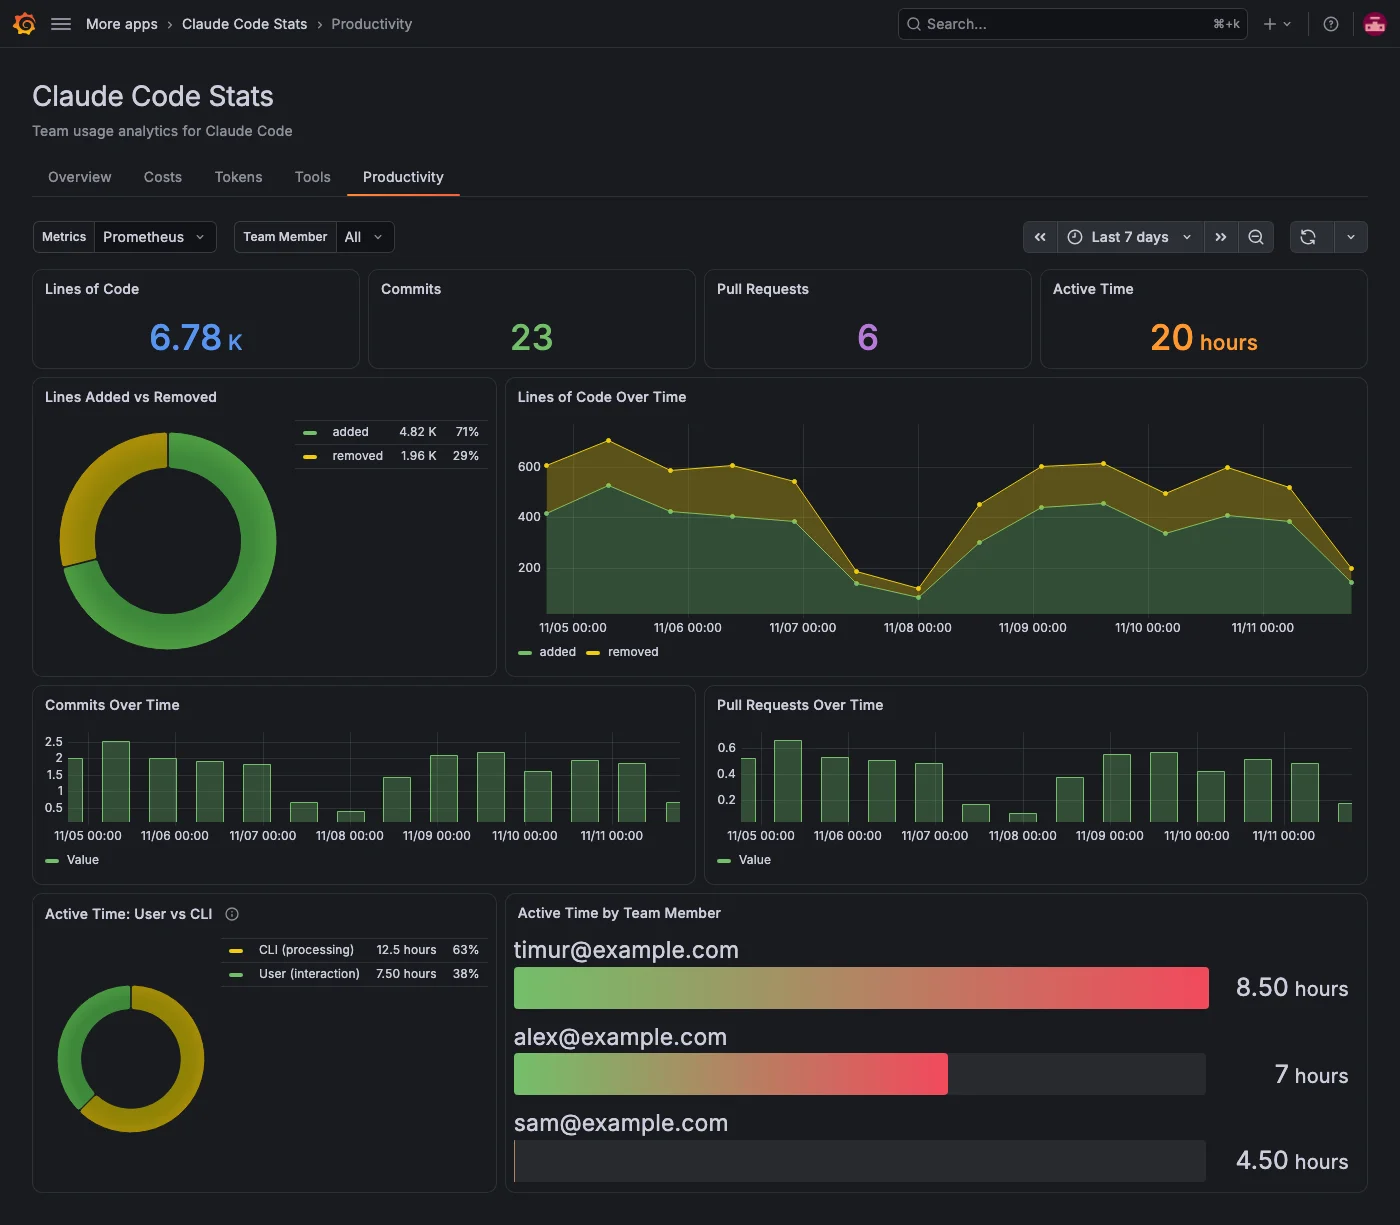
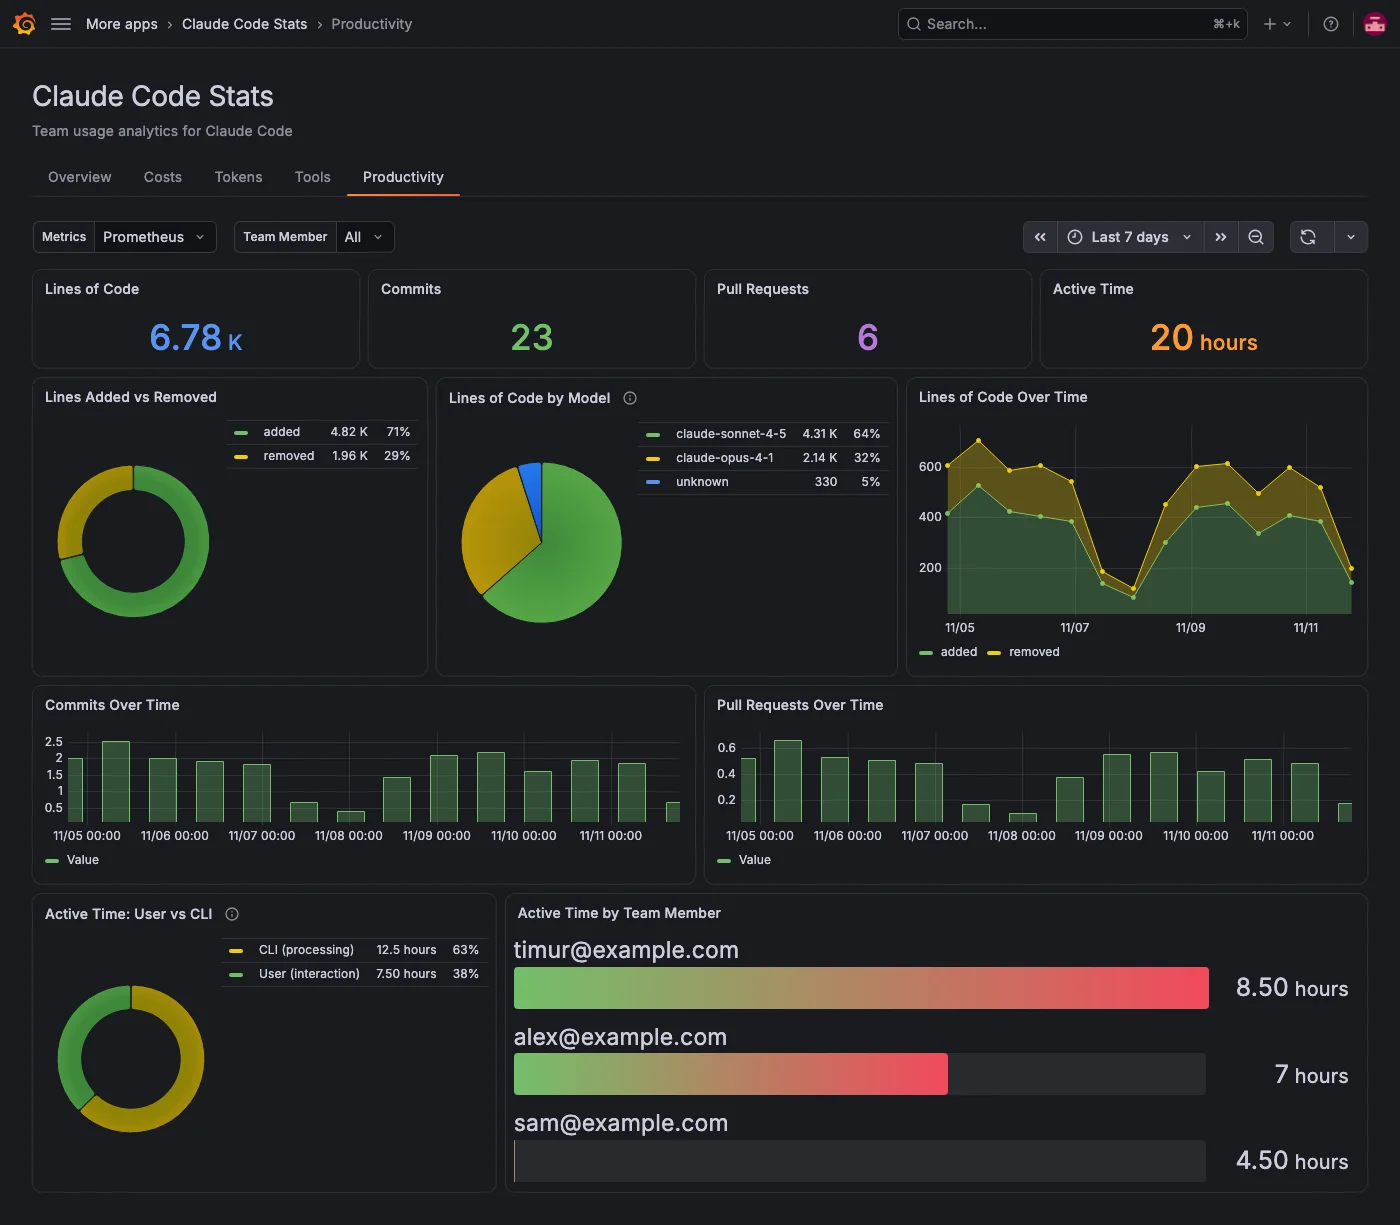
feat: attribute lines of code to model (#34) (#68)
Claude Code v2.1.172+ adds a model label to lines_of_code.count. The
Productivity tab gets a 'Lines of Code by Model' pie, matching Cost by Model.
Series from older clients have no model label and fold into an 'unknown'
bucket via label_replace, so the split still adds up to the total.

Closes #34

diff --git a/src/scenes/pages/ProductivityScene.ts b/src/scenes/pages/ProductivityScene.ts
@@ -84,6 +84,18 @@ export function getProductivityScene(
     ],
   });
 
+  const linesOfCodeByModelQuery = new SceneQueryRunner({
+    datasource: { type: 'prometheus', uid: '${prometheus_ds}' },
+    queries: [
+      {
+        refId: 'LinesOfCodeByModel',
+        expr: queries.linesOfCodeByModel,
+        legendFormat: '{{model}}',
+        instant: true,
+      },
+    ],
+  });
+
   const linesOfCodeOverTimeQuery = new SceneQueryRunner({
     datasource: { type: 'prometheus', uid: '${prometheus_ds}' },
     queries: [
@@ -202,7 +214,7 @@ export function getProductivityScene(
           height: PANEL_HEIGHTS.LARGE,
           children: [
             new SceneFlexItem({
-              width: '35%',
+              width: '30%',
               body: PanelBuilders.piechart()
                 .setTitle('Lines Added vs Removed')
                 .setUnit('short')
@@ -216,7 +228,23 @@ export function getProductivityScene(
                 .build(),
             }),
             new SceneFlexItem({
-              width: '65%',
+              width: '35%',
+              body: PanelBuilders.piechart()
+                .setTitle('Lines of Code by Model')
+                .setDescription(
+                  'Lines added plus removed, by the model that wrote them. Lines from Claude Code versions before 2.1.172 have no model and show as unknown.'
+                )
+                .setUnit('short')
+                .setData(linesOfCodeByModelQuery)
+                .setOption('legend', {
+                  displayMode: LegendDisplayMode.Table,
+                  placement: 'right',
+                  values: ['value', 'percent'] as never,
+                })
+                .build(),
+            }),
+            new SceneFlexItem({
+              width: '35%',
               body: PanelBuilders.timeseries()
                 .setTitle('Lines of Code Over Time')
                 .setUnit('short')

diff --git a/tests/mocks/prometheus.ts b/tests/mocks/prometheus.ts
@@ -94,6 +94,8 @@ const SESSIONS_BY_START_TYPE = { fresh: 34, resume: 15, continue: 9, agents_view
 const DECISIONS_BY_TYPE = { accept: 438, reject: 146 };
 const DECISIONS_BY_TOOL = { Edit: 402, Write: 151, NotebookEdit: 31 };
 const LINES_BY_TYPE = { added: 4820, removed: 1960 };
+// Same total by model; `unknown` is lines from clients too old to send the label.
+const LINES_BY_MODEL = { [MODELS[0]]: 4310, [MODELS[1]]: 2140, unknown: 330 };
 // Active time in seconds (20 hours across the team).
 const ACTIVE_TIME_BY_MEMBER = { [MEMBERS[0]]: 30600, [MEMBERS[1]]: 25200, [MEMBERS[2]]: 16200 };
 // The same 20 hours split into interaction (user) and processing (cli) time.
@@ -308,6 +310,7 @@ const DATASET: Record<string, FrameBuilder> = {
 
   // --- productivity ---
   LinesOfCodeByType: (id) => instantSeriesFrames(id, 'type', LINES_BY_TYPE),
+  LinesOfCodeByModel: (id) => instantSeriesFrames(id, 'model', LINES_BY_MODEL),
   LinesOfCodeOverTime: (id, r) => rangeSeriesFrames(id, 'type', LINES_BY_TYPE, r),
   CommitsOverTime: (id, r) => rangeSeriesFrames(id, null, { total: SCALARS.TotalCommits }, r),
   PullRequestsOverTime: (id, r) => rangeSeriesFrames(id, null, { total: SCALARS.TotalPullRequests }, r),

diff --git a/tests/productivity.spec.ts b/tests/productivity.spec.ts
@@ -1,6 +1,6 @@
 import { test, expect } from './fixtures';
 import { panelByTitle, legendItem } from './mocks/panels';
-import { ACTIVE_TIME_TYPES, DISPLAY, MEMBERS, LOC_TYPES } from './mocks/prometheus';
+import { ACTIVE_TIME_TYPES, DISPLAY, MEMBERS, MODELS, LOC_TYPES } from './mocks/prometheus';
 
 test.describe('Productivity scene', () => {
   test('renders the productivity stat row', async ({ mockData, gotoPage, selectors }) => {
@@ -18,6 +18,18 @@ test.describe('Productivity scene', () => {
     for (const type of LOC_TYPES) {
       await expect(legendItem(app, selectors, 'Lines Added vs Removed', type)).toBeVisible();
       await expect(legendItem(app, selectors, 'Lines of Code Over Time', type)).toBeVisible();
+    }
+  });
+
+  test('attributes lines of code to models, with unknown for older clients', async ({
+    mockData,
+    gotoPage,
+    selectors,
+  }) => {
+    const app = await gotoPage('productivity');
+
+    for (const model of [...MODELS, 'unknown']) {
+      await expect(legendItem(app, selectors, 'Lines of Code by Model', model)).toBeVisible();
     }
   });
 

diff --git a/src/scenes/queries.ts b/src/scenes/queries.ts
@@ -125,6 +125,12 @@ function buildQueries(m: MetricNames) {
     /** Lines of code by type (added, removed) */
     linesOfCodeByType: `sum by (${LABELS.LOC_TYPE}) (increase(${m.LINES_OF_CODE}{${LABELS.USER_EMAIL}=~"$member"}[$__range]))`,
 
+    /**
+     * Lines of code by model. The `model` label only exists from Claude Code v2.1.172;
+     * series from older clients fold into an "unknown" bucket so the split still adds up to the total.
+     */
+    linesOfCodeByModel: `sort_desc(sum by (${LABELS.MODEL}) (label_replace(increase(${m.LINES_OF_CODE}{${LABELS.USER_EMAIL}=~"$member"}[$__range]), "${LABELS.MODEL}", "unknown", "${LABELS.MODEL}", "^$")))`,
+
     /** Lines of code by member */
     linesOfCodeByMember: `sum by (${LABELS.USER_EMAIL}) (increase(${m.LINES_OF_CODE}[$__range]))`,
 

diff --git a/catalog-docs/features/productivity.md b/catalog-docs/features/productivity.md
@@ -14,17 +14,20 @@ The **Productivity** tab shows the output of your team's Claude Code sessions an
 
 ## Track output
 
-| Panel                       | What it shows                                        |
-| --------------------------- | ---------------------------------------------------- |
-| **Lines of Code**           | Lines Claude Code added plus lines it removed.       |
-| **Commits**                 | Git commits Claude Code created.                     |
-| **Pull Requests**           | Pull requests or merge requests Claude Code created. |
-| **Lines Added vs Removed**  | The split between added and removed lines.           |
-| **Lines of Code Over Time** | Added and removed lines per interval.                |
-| **Commits Over Time**       | Commits per interval.                                |
-| **Pull Requests Over Time** | Pull requests per interval.                          |
+| Panel                       | What it shows                                                 |
+| --------------------------- | ------------------------------------------------------------- |
+| **Lines of Code**           | Lines Claude Code added plus lines it removed.                |
+| **Commits**                 | Git commits Claude Code created.                              |
+| **Pull Requests**           | Pull requests or merge requests Claude Code created.          |
+| **Lines Added vs Removed**  | The split between added and removed lines.                    |
+| **Lines of Code by Model**  | Lines added plus removed, split by the model that wrote them. |
+| **Lines of Code Over Time** | Added and removed lines per interval.                         |
+| **Commits Over Time**       | Commits per interval.                                         |
+| **Pull Requests Over Time** | Pull requests per interval.                                   |
 
 Panels show no data when nothing happened in the period, such as no commits.
+
+Claude Code records the model for lines of code from version 2.1.172. Lines from older versions show as `unknown` in **Lines of Code by Model**.
 
 ## Track active time
 
@@ -38,4 +41,4 @@ Claude Code records active time in two parts: **User** is time spent interacting
 
 ## Filters on this tab
 
-**Team Member** applies to every panel except **Active Time by Team Member**, which always shows every member. The tab has no **Model** filter, because commits, pull requests and active time aren't recorded per model.
+**Team Member** applies to every panel except **Active Time by Team Member**, which always shows every member. The tab has no **Model** filter, because commits, pull requests and active time aren't recorded per model. **Lines of Code by Model** always shows every model.

diff --git a/catalog-docs/features/index.md b/catalog-docs/features/index.md
@@ -32,4 +32,4 @@ Every tab has the same controls above the panels:
 
 Your choices carry over when you switch tabs and are saved in the URL, so you can share a filtered view by copying the link.
 
-A few comparison panels skip their own filter so you can compare: **Cost by Team Member**, **Cost Distribution by Member**, **Tokens by Team Member** and **Active Time by Team Member** always show every member, and **Cost by Model** and **Tokens by Model** always show every model. Other panels, including the **Over Time** charts, follow both filters. Each tab's page lists exactly which filters apply.
+A few comparison panels skip their own filter so you can compare: **Cost by Team Member**, **Cost Distribution by Member**, **Tokens by Team Member** and **Active Time by Team Member** always show every member, and **Cost by Model**, **Tokens by Model** and **Lines of Code by Model** always show every model. Other panels, including the **Over Time** charts, follow both filters. Each tab's page lists exactly which filters apply.
